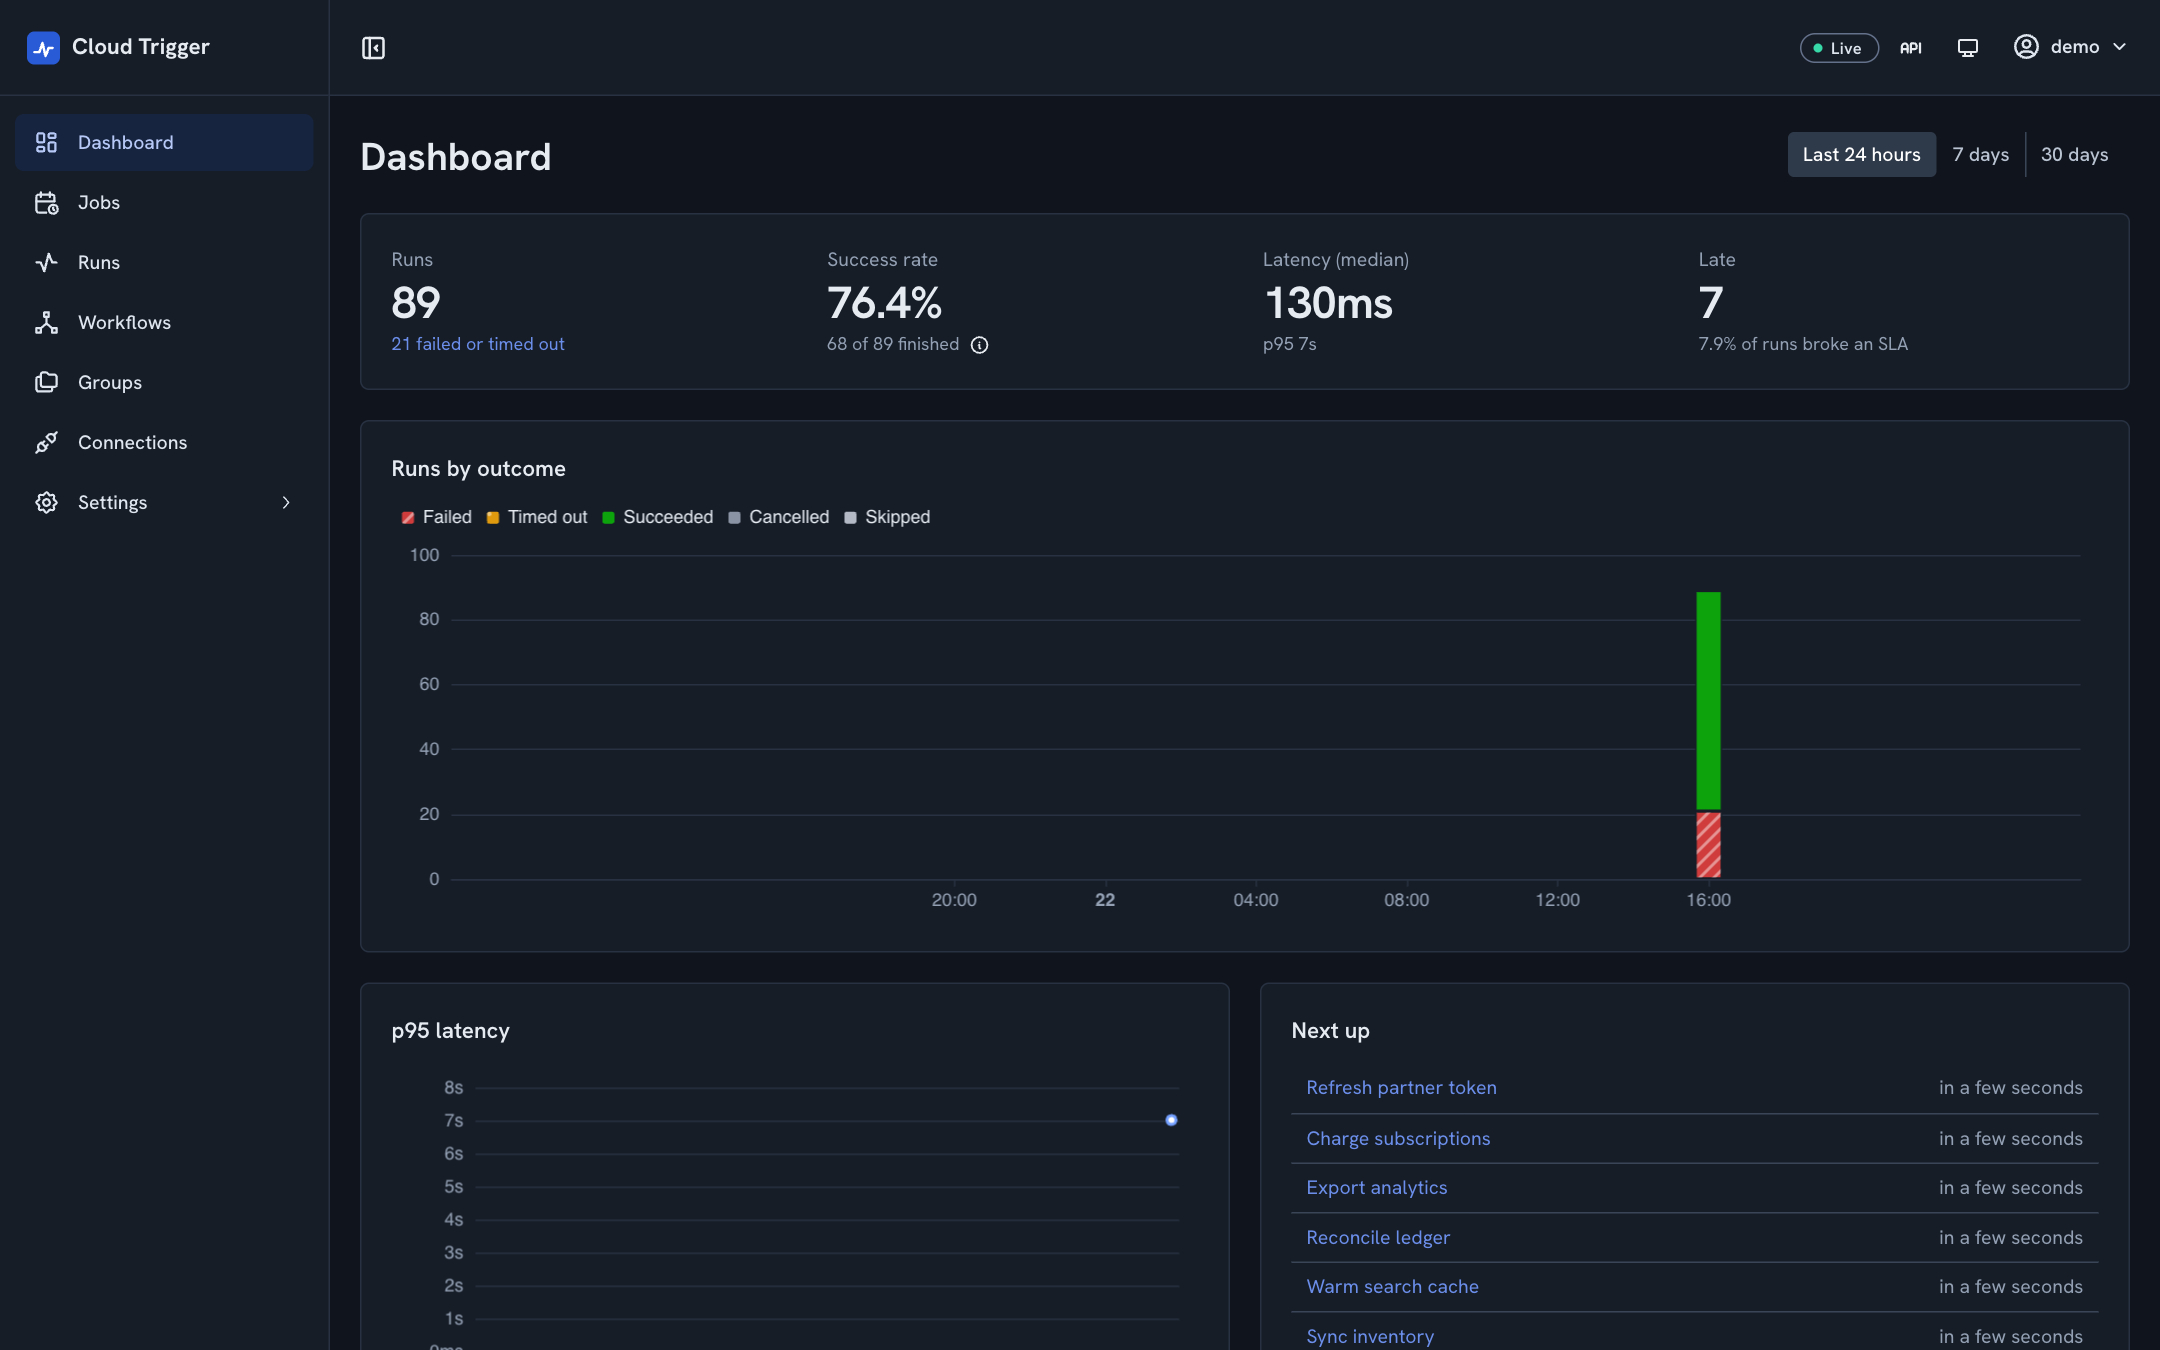
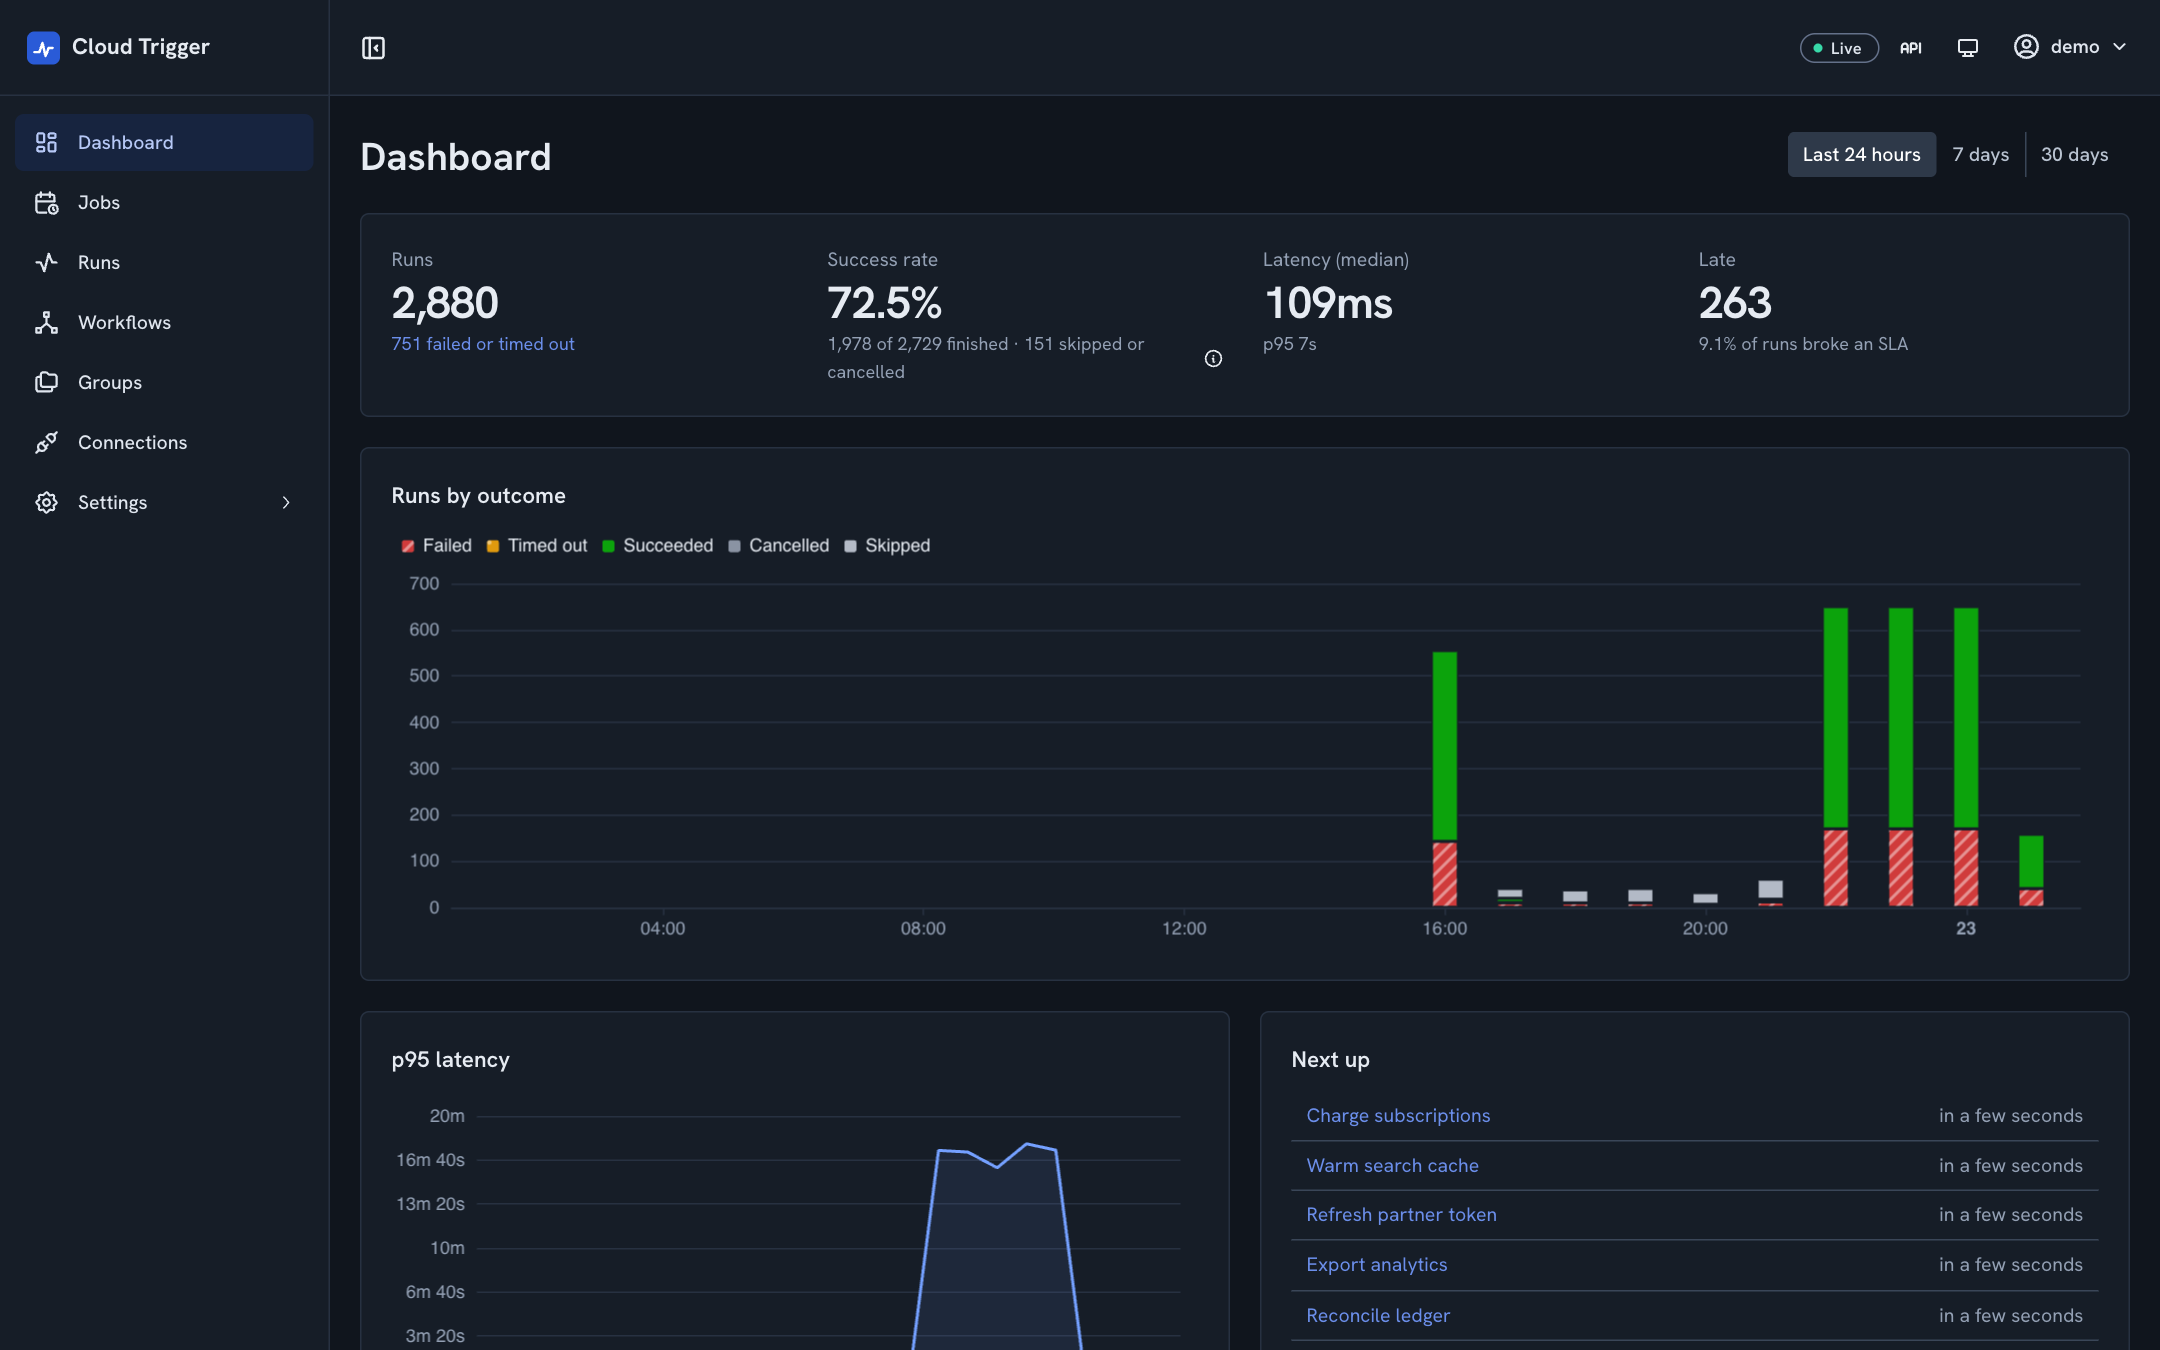
fix: engine - flag runs that breach their SLA and finish between checks

diff --git a/packages/engine/test/sla.integration.test.ts b/packages/engine/test/sla.integration.test.ts
@@ -3,7 +3,7 @@ import { silentLogger } from '@cloud-trigger/core';
 import { describe, expect, it } from 'vitest';
 import { z } from 'zod';
 
-import { SlaMonitor } from '../src/index.js';
+import { type RunLifecycleListener, SlaMonitor } from '../src/index.js';
 import { useHarness } from './harness.js';
 
 const h = useHarness('sla');
@@ -22,14 +22,14 @@ const lateRule = () => ({
   on: ['late'],
   notifier: { type: 'webhook', config: { url: `${h.base()}/hook` } },
 });
-const monitor = () =>
+const monitor = (listeners: readonly RunLifecycleListener[] = h.listeners()) =>
   new SlaMonitor(
     {
       ...h.db,
       enqueuer: h.enqueuer(),
       clock: h.clock,
       logger: silentLogger,
-      listeners: h.listeners(),
+      listeners,
     },
     { intervalMs: 1_000, batchSize: 50 },
   );
@@ -65,12 +65,22 @@ describe('SLA monitor', () => {
       policy: { sla: { maxDurationMs: 500 } },
     });
     await fire(job.id);
-    const worker = h.worker();
+    let lateCalls = 0;
+    const listeners = [
+      ...h.listeners(),
+      {
+        onRunFinished: async () => {},
+        onRunLate: async () => {
+          lateCalls += 1;
+        },
+      },
+    ];
+    const worker = h.worker({}, { listeners });
     const settled = h.settle(worker);
     await new Promise((resolve) => setTimeout(resolve, 100));
     expect((await onlyRun(job.id)).status).toBe('running');
 
-    const sla = monitor();
+    const sla = monitor(listeners);
     await sla.tick();
     expect((await onlyRun(job.id)).late).toBe(false);
     h.advance(600);
@@ -85,6 +95,55 @@ describe('SLA monitor', () => {
     expect(run.lateReasons).toEqual(['Still running after 500 ms']);
     expect(lateHooks()).toHaveLength(1);
     expect(lateHooks()[0]?.run.id).toBe(run.id);
+    expect(lateCalls).toBe(1);
+  });
+
+  it('flags an overrun that finishes before the monitor checks it', async () => {
+    h.route('/slow-target', () => ({ status: 200, delayMs: 300 }));
+    const job = await h.createJob('/slow-target', {
+      notifications: [lateRule()],
+      policy: { sla: { maxDurationMs: 500 } },
+    });
+    await fire(job.id);
+    const settled = h.settle(h.worker());
+    await new Promise((resolve) => setTimeout(resolve, 100));
+    h.advance(600);
+    await settled;
+    await drain();
+
+    const run = await onlyRun(job.id);
+    expect(run).toMatchObject({ status: 'succeeded', late: true });
+    expect(run.lateReasons).toEqual(['Still running after 500 ms']);
+    expect(lateHooks()).toHaveLength(1);
+  });
+
+  it('flags a late start that finishes before the monitor checks it', async () => {
+    const job = await h.createJob('/ok', {
+      notifications: [lateRule()],
+      policy: { sla: { maxStartDelayMs: 1_000 } },
+    });
+    await fire(job.id);
+    h.advance(1_500);
+    await h.settle(h.worker());
+    await drain();
+
+    const run = await onlyRun(job.id);
+    expect(run).toMatchObject({ status: 'succeeded', late: true });
+    expect(run.lateReasons).toEqual(['Started 1500 ms after its scheduled time']);
+    expect(lateHooks()).toHaveLength(1);
+  });
+
+  it('leaves a run that finishes within its limits on time', async () => {
+    const job = await h.createJob('/ok', {
+      notifications: [lateRule()],
+      policy: { sla: { maxStartDelayMs: 1_000, maxDurationMs: 5_000 } },
+    });
+    await fire(job.id);
+    await h.settle(h.worker());
+    await drain();
+
+    expect(await onlyRun(job.id)).toMatchObject({ status: 'succeeded', late: false });
+    expect(lateHooks()).toHaveLength(0);
   });
 
   it('flags a run that waited longer than maxStartDelayMs only once', async () => {

diff --git a/packages/engine/src/run-completion.ts b/packages/engine/src/run-completion.ts
@@ -11,14 +11,17 @@ import {
   type Result,
   type Run,
   type RunRepository,
+  type RunningRun,
   type SkippedRun,
   type StaleRunError,
+  checkRunSla,
   isFailedRetry,
   isTerminal,
   successDeadlineAfter,
 } from '@cloud-trigger/core';
 
 import { DecisionRecorder } from './decisions.js';
+import { markRunLate } from './late-runs.js';
 import type { RunLifecycleListener } from './lifecycle.js';
 import { PolicyResolver } from './policies.js';
 
@@ -47,6 +50,9 @@ export class RunCompletion {
     next: Run,
     job: Job | undefined,
   ): Promise<Result<Run, StaleRunError>> {
+    if (previous.status === 'running' && job) {
+      await this.#flagOverdue(previous, job);
+    }
     const saved = await this.deps.runs.transition(previous, next);
     if (saved.isErr()) {
       return saved;
@@ -68,6 +74,18 @@ export class RunCompletion {
     await this.#notify(stored.id, (listener) => listener.onRunFinished(stored, job));
 
     return saved;
+  }
+
+  async #flagOverdue(run: RunningRun, job: Job): Promise<void> {
+    const now = this.deps.clock.now();
+    if (run.late || run.slaDeadline === null || now < run.slaDeadline) {
+      return;
+    }
+    const { policy } = await this.#policies.resolve(job);
+    const check = checkRunSla(run, policy.sla, now);
+    if (check.reasons.length > 0) {
+      await markRunLate(this.deps, run, job, check.reasons);
+    }
   }
 
   async #notify(

diff --git a/packages/engine/src/sla-monitor.ts b/packages/engine/src/sla-monitor.ts
@@ -12,6 +12,7 @@ import {
   checkRunSla,
 } from '@cloud-trigger/core';
 
+import { markRunLate } from './late-runs.js';
 import type { RunLifecycleListener } from './lifecycle.js';
 import { PollingLoop } from './loop.js';
 import type { NotificationEnqueuer } from './notification-listener.js';
@@ -92,19 +93,7 @@ export class SlaMonitor {
 
       return;
     }
-    const late = { ...run, late: true, lateReasons: [...check.reasons], slaDeadline: null };
-    if (!(await this.deps.runs.updateSla(run, late))) {
-      return;
-    }
-    this.deps.logger.warn('Run breached its SLA', { runId: run.id, reasons: check.reasons });
-    await this.deps.enqueuer.forRun(late, job, 'late');
-    for (const listener of this.deps.listeners) {
-      await listener
-        .onRunLate?.(late, job)
-        .catch((error: unknown) =>
-          this.deps.logger.error('Late listener failed', { runId: run.id, err: error }),
-        );
-    }
+    await markRunLate(this.deps, run, job, check.reasons);
   }
 
   async #checkJob(job: Job, now: Date): Promise<void> {

diff --git a/packages/engine/src/late-runs.ts b/packages/engine/src/late-runs.ts
@@ -1,0 +1,31 @@
+import type { Job, Logger, PendingRun, RunRepository, RunningRun } from '@cloud-trigger/core';
+
+import type { RunLifecycleListener } from './lifecycle.js';
+
+export interface LateRunDeps {
+  readonly runs: RunRepository;
+  readonly logger: Logger;
+  readonly listeners: readonly RunLifecycleListener[];
+}
+
+export async function markRunLate(
+  deps: LateRunDeps,
+  run: PendingRun | RunningRun,
+  job: Job,
+  reasons: readonly string[],
+): Promise<boolean> {
+  const late = { ...run, late: true, lateReasons: [...reasons], slaDeadline: null };
+  if (!(await deps.runs.updateSla(run, late))) {
+    return false;
+  }
+  deps.logger.warn('Run breached its SLA', { runId: run.id, reasons });
+  for (const listener of deps.listeners) {
+    await listener
+      .onRunLate?.(late, job)
+      .catch((error: unknown) =>
+        deps.logger.error('Late listener failed', { runId: run.id, err: error }),
+      );
+  }
+
+  return true;
+}

diff --git a/packages/engine/src/notification-listener.ts b/packages/engine/src/notification-listener.ts
@@ -8,6 +8,7 @@ import {
   type NotificationRule,
   type PendingRun,
   type Run,
+  type RunningRun,
   type SkippedRun,
   type TargetResult,
   assertNever,
@@ -129,5 +130,9 @@ export class NotificationListener implements RunLifecycleListener {
     if (job) {
       await this.enqueuer.forRun(run, job, 'failure', `${run.id}:${run.attempts.length}`);
     }
+  }
+
+  async onRunLate(run: PendingRun | RunningRun, job: Job): Promise<void> {
+    await this.enqueuer.forRun(run, job, 'late');
   }
 }

diff --git a/.claude/rules/engine.md b/.claude/rules/engine.md
@@ -18,6 +18,7 @@ paths:
 - Don't CAS-replace a running run from anywhere except its worker; it would break the worker's final CAS. Fenced field updates that leave `updatedAt` and the lease alone are fine (`updateSla`, `markSlotHeld`, `acquireExecution`). `transition` keeps `late` and `lateReasons` when it replaces a document.
 - Workflow state changes go through `WorkflowRuntime.mutate`: a pure transition from `domain/workflow-run.ts`, a CAS write (`WorkflowRunRepository.update(next, expectedVersion)`), and then its effects. Never write a `WorkflowRun` any other way. Jobs with `workflowId` set belong to their workflow; change them only through `WorkflowService`.
 - Bind a job with `bindJob(registry, spec, catalog)`, loading the catalog with `loadConnections(connections, job.connectionRefs, environment)` first, where `environment` comes from the resolved policy. Code that only needs the schedule calls `loadTrigger(registry, connections, job)` (or `bindTrigger` with a catalog it already holds), so a broken target never blocks explain, resume or backfill. The `ConsumerSupervisor` keys each subscription by the job version, its trigger connection's version and the effective environment.
+- Run SLAs are checked by `SlaMonitor` while a run is pending or running, and once more by `RunCompletion.commit` just before a running attempt's final CAS, so a run that breaches and finishes between ticks is still flagged. Both paths go through `markRunLate` (`late-runs.ts`), whose fenced `updateSla` lets only one of them win. The late notification is sent by `NotificationListener.onRunLate`.
 - Record non-routine scheduling decisions (skips, catch-ups, pauses, throttling) with `DecisionRecorder`, so the explainer can narrate them.
 - Integration tests go in `packages/engine/test/*.integration.test.ts` and run against real Mongo plus a real local HTTP server.
 - Plugin tests use Testcontainers too. LocalStack is pinned to `localstack/localstack:4.14`, because later images refuse to start without a `LOCALSTACK_AUTH_TOKEN`. Override the image with `LOCALSTACK_IMAGE`.

diff --git a/README.md b/README.md
@@ -223,7 +223,7 @@ claude mcp add --transport http cloud-trigger http://localhost:8080/mcp --header
 - Retries with backoff, timeouts, and auto-pause after N consecutive failures.
 - Exactly-once firing across replicas.
 - Groups that share default policies, default notifications and rate limits (`perSecond` and `maxConcurrent`, enforced across replicas).
-- SLAs (start delay, duration, time since last success) that flag runs and jobs as late.
+- SLAs (start delay, duration, time since last success) that flag runs and jobs as late, including runs that finish between SLA checks.
 - Idempotent backfill of past fire times.
 
 </details>
